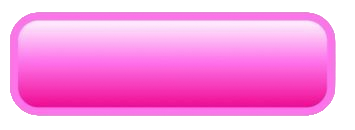
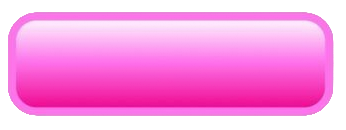
add new class MenuMechanicsScreen2. Redact button in menu classes

Changed region(s): [[0.8671, 0.0923, 0.9827, 0.8923], [0.0, 0.0923, 0.0867, 0.8308], [0.0578, 0.8308, 0.0867, 0.8923]]

diff --git a/core/src/com/mygdx/game/screens/MenuMechanicsScreen.java b/core/src/com/mygdx/game/screens/MenuMechanicsScreen.java
@@ -23,12 +23,8 @@ public class MenuMechanicsScreen implements Screen {
     private ButtonView button_seven;
     private ButtonView button_eight;
     private ButtonView button_nine;
-    private ButtonView button_ten;
-    private ButtonView button_eleven;
-    private ButtonView button_twelve;
-    private ButtonView button_thirteen;
-    private ButtonView button_fourteen;
-    private ButtonView button_fifteen;
+
+    private ButtonView button_right;
 
     public MenuMechanicsScreen(MyGdxGame myGdxGame) {
         this.myGdxGame = myGdxGame;
@@ -38,21 +34,17 @@ public class MenuMechanicsScreen implements Screen {
     public void show() {
         myGdxGame.camera.update();
         myGdxGame.batch.setProjectionMatrix(myGdxGame.camera.combined);
-        button_one = new ButtonView(25, 380, 240, 70, myGdxGame.commonWhiteFont, GameResources.BUTTON_BLUE_IMG_PATH, "1. Виды движения");
-        button_two = new ButtonView(275, 380, 240, 70, myGdxGame.commonWhiteFont, GameResources.BUTTON_VIOLET_IMG_PATH, "2. Масса тела");
-        button_three = new ButtonView(515, 380, 240, 70, myGdxGame.commonWhiteFont, GameResources.BUTTON_BLUE_IMG_PATH, "3. Сила");
-        button_four = new ButtonView(25, 290, 240, 70, myGdxGame.commonWhiteFont, GameResources.BUTTON_VIOLET_IMG_PATH, "4. Инерция");
-        button_five = new ButtonView(275, 290, 240, 70, myGdxGame.commonWhiteFont, GameResources.BUTTON_BLUE_IMG_PATH, "5. Сила трения");
-        button_six = new ButtonView(515, 290, 240, 70, myGdxGame.commonWhiteFont, GameResources.BUTTON_VIOLET_IMG_PATH, "6. Деформация");
-        button_seven = new ButtonView(25, 200, 240, 70, myGdxGame.commonWhiteFont, GameResources.BUTTON_BLUE_IMG_PATH, "7. Сила притяжения");
-        button_eight = new ButtonView(248, 200, 285, 70, myGdxGame.commonWhiteFont, GameResources.BUTTON_VIOLET_IMG_PATH, "8. Закон сохранения импульса");
-        button_nine = new ButtonView(515, 200, 240, 70, myGdxGame.commonWhiteFont, GameResources.BUTTON_BLUE_IMG_PATH, "9. Механическая работа");
-        button_ten = new ButtonView(25, 110, 240, 70, myGdxGame.commonWhiteFont, GameResources.BUTTON_VIOLET_IMG_PATH, "10. Виды энергии");
-        button_eleven = new ButtonView(275, 110, 240, 70, myGdxGame.commonWhiteFont, GameResources.BUTTON_BLUE_IMG_PATH, "11. Простые механизмы");
-        button_twelve = new ButtonView(515, 110, 240, 70, myGdxGame.commonWhiteFont, GameResources.BUTTON_VIOLET_IMG_PATH, "12. Давление");
-        button_thirteen = new ButtonView(25, 20, 240, 70, myGdxGame.commonWhiteFont, GameResources.BUTTON_BLUE_IMG_PATH, "13. Закон Паскаля");
-        button_fourteen = new ButtonView(275, 20, 240, 70, myGdxGame.commonWhiteFont, GameResources.BUTTON_VIOLET_IMG_PATH, "14. Закон Архимеда");
-        button_fifteen = new ButtonView(515, 20, 240, 70, myGdxGame.commonWhiteFont, GameResources.BUTTON_BLUE_IMG_PATH, "15. Звук");
+        button_one = new ButtonView(25, 340, 235, 120, myGdxGame.commonWhiteFont, GameResources.BUTTON_RED_IMG_PATH, "1. Виды движения");
+        button_two = new ButtonView(275, 340, 235, 120, myGdxGame.commonWhiteFont, GameResources.BUTTON_BLUE_IMG_PATH, "2. Масса тела");
+        button_three = new ButtonView(515, 340, 235, 120, myGdxGame.commonWhiteFont, GameResources.BUTTON_YELLO_IMG_PATH, "3. Сила");
+        button_four = new ButtonView(25, 210, 235, 120, myGdxGame.commonWhiteFont, GameResources.BUTTON_BROWN_IMG_PATH, "4. Инерция");
+        button_five = new ButtonView(275, 210, 235, 120, myGdxGame.commonWhiteFont, GameResources.BUTTON_PINK_IMG_PATH, "5. Сила трения");
+        button_six = new ButtonView(515, 210, 235, 120, myGdxGame.commonWhiteFont, GameResources.BUTTON_VIOLET_IMG_PATH, "6. Деформация");
+        button_seven = new ButtonView(25, 80, 235, 120, myGdxGame.commonWhiteFont, GameResources.BUTTON_YELLO_IMG_PATH, "7. Сила притяжения");
+        button_eight = new ButtonView(275, 80, 235, 120, myGdxGame.commonWhiteFont, GameResources.BUTTON_RED_IMG_PATH, "8. Закон" + "\n" + "сохранения" + "\n" + " импульса");
+        button_nine = new ButtonView(515, 80, 235, 120, myGdxGame.commonWhiteFont, GameResources.BUTTON_BLUE_IMG_PATH, "9. Механическая" + "\n" + "         работа");
+
+        button_right = new ButtonView(720, 20, 50, 50, GameResources.BUTTON_RIGHT_IMG_PATH);
 
     }
 
@@ -78,12 +70,8 @@ public class MenuMechanicsScreen implements Screen {
         button_seven.draw(myGdxGame.batch);
         button_eight.draw(myGdxGame.batch);
         button_nine.draw(myGdxGame.batch);
-        button_ten.draw(myGdxGame.batch);
-        button_eleven.draw(myGdxGame.batch);
-        button_twelve.draw(myGdxGame.batch);
-        button_thirteen.draw(myGdxGame.batch);
-        button_fourteen.draw(myGdxGame.batch);
-        button_fifteen.draw(myGdxGame.batch);
+
+        button_right.draw(myGdxGame.batch);
 
         myGdxGame.batch.end();
     }
@@ -96,9 +84,10 @@ public class MenuMechanicsScreen implements Screen {
                 myGdxGame.setScreen(myGdxGame.mechanicsScreen1);
 
             }
-//            if (exitButton.isHit(myGdxGame.touch.x, myGdxGame.touch.y)) {
-//                Gdx.app.exit();
-//            }
+            if (button_right.isHit(myGdxGame.touch.x, myGdxGame.touch.y)) {
+                myGdxGame.setScreen(myGdxGame.menuMechanicsScreen2);
+
+            }
         }
     }
 
@@ -111,16 +100,11 @@ public class MenuMechanicsScreen implements Screen {
         button_four.dispose();
         button_five.dispose();
         button_six.dispose();
-
         button_seven.dispose();
         button_eight.dispose();
         button_nine.dispose();
-        button_ten.dispose();
-        button_eleven.dispose();
-        button_twelve.dispose();
-        button_thirteen.dispose();
-        button_fourteen.dispose();
-        button_fifteen.dispose();
+
+        button_right.dispose();
 
     }
 

diff --git a/core/src/com/mygdx/game/screens/MenuMechanicsScreen2.java b/core/src/com/mygdx/game/screens/MenuMechanicsScreen2.java
@@ -1,0 +1,115 @@
+package com.mygdx.game.screens;
+
+import com.badlogic.gdx.Gdx;
+import com.badlogic.gdx.Screen;
+import com.badlogic.gdx.graphics.Color;
+import com.badlogic.gdx.graphics.Texture;
+import com.badlogic.gdx.math.Vector3;
+import com.badlogic.gdx.utils.ScreenUtils;
+import com.mygdx.game.GameResources;
+import com.mygdx.game.GameSettings;
+import com.mygdx.game.MyGdxGame;
+import com.mygdx.game.components.ButtonView;
+
+public class MenuMechanicsScreen2 implements Screen {
+    MyGdxGame myGdxGame;
+    private Texture background;
+    private ButtonView button_ten;
+    private ButtonView button_eleven;
+    private ButtonView button_twelve;
+    private ButtonView button_thirteen;
+    private ButtonView button_fourteen;
+    private ButtonView button_fifteen;
+
+    private ButtonView button_left;
+
+    public MenuMechanicsScreen2(MyGdxGame myGdxGame) {
+        this.myGdxGame = myGdxGame;
+        background = new Texture(GameResources.BACKGROUND_DOSKA_IMG_PATH);
+    }
+
+    @Override
+    public void show() {
+        myGdxGame.camera.update();
+        myGdxGame.batch.setProjectionMatrix(myGdxGame.camera.combined);
+
+        button_ten = new ButtonView(25, 300, 235, 120, myGdxGame.commonWhiteFont, GameResources.BUTTON_RED_IMG_PATH, "10. Виды энергии");
+        button_eleven = new ButtonView(275, 300, 235, 120, myGdxGame.commonWhiteFont, GameResources.BUTTON_BLUE_IMG_PATH, "11. Простые" + "\n" + "  механизмы");
+        button_twelve = new ButtonView(515, 300, 235, 120, myGdxGame.commonWhiteFont, GameResources.BUTTON_YELLO_IMG_PATH, "12. Давление");
+        button_thirteen = new ButtonView(25, 140, 235, 120, myGdxGame.commonWhiteFont, GameResources.BUTTON_BROWN_IMG_PATH, "13. Закон Паскаля");
+        button_fourteen = new ButtonView(275, 140, 235, 120, myGdxGame.commonWhiteFont, GameResources.BUTTON_PINK_IMG_PATH, "14. Закон Архимеда");
+        button_fifteen = new ButtonView(515, 140, 235, 120, myGdxGame.commonWhiteFont, GameResources.BUTTON_VIOLET_IMG_PATH,"15. Звук");
+
+        button_left = new ButtonView(30, 20, 50, 50, GameResources.BUTTON_LEFT_IMG_PATH);
+    }
+
+    @Override
+    public void render(float delta) {
+
+        handleInput();
+
+        ScreenUtils.clear(Color.CLEAR);
+
+        myGdxGame.camera.update();
+        myGdxGame.batch.setProjectionMatrix(myGdxGame.camera.combined);
+
+        myGdxGame.batch.begin();
+
+        myGdxGame.batch.draw(background,  0, 0, GameSettings.SCR_WIDTH, GameSettings.SCR_HEIGHT);
+        button_ten.draw(myGdxGame.batch);
+        button_eleven.draw(myGdxGame.batch);
+        button_twelve.draw(myGdxGame.batch);
+        button_thirteen.draw(myGdxGame.batch);
+        button_fourteen.draw(myGdxGame.batch);
+        button_fifteen.draw(myGdxGame.batch);
+
+        button_left.draw(myGdxGame.batch);
+
+        myGdxGame.batch.end();
+    }
+
+    private void handleInput() {
+        if (Gdx.input.justTouched()) {
+            myGdxGame.touch = myGdxGame.camera.unproject(new Vector3(Gdx.input.getX(), Gdx.input.getY(), 0));
+
+            if (button_left.isHit(myGdxGame.touch.x, myGdxGame.touch.y)) {
+                myGdxGame.setScreen(myGdxGame.menuMechanicsScreen);
+
+            }
+        }
+    }
+
+    @Override
+    public void dispose() {
+        background.dispose();
+
+        button_ten.dispose();
+        button_eleven.dispose();
+        button_twelve.dispose();
+        button_thirteen.dispose();
+        button_fourteen.dispose();
+        button_fifteen.dispose();
+
+        button_left.dispose();
+    }
+
+    @Override
+    public void resize(int width, int height) {
+
+    }
+
+    @Override
+    public void pause() {
+
+    }
+
+    @Override
+    public void resume() {
+
+    }
+
+    @Override
+    public void hide() {
+
+    }
+}

diff --git a/core/src/com/mygdx/game/screens/MenuScreen2.java b/core/src/com/mygdx/game/screens/MenuScreen2.java
@@ -29,12 +29,12 @@ public class MenuScreen2 implements Screen {
     public void show() {
         myGdxGame.camera.update();
         myGdxGame.batch.setProjectionMatrix(myGdxGame.camera.combined);
-        button_one = new ButtonView(25, 300, 290, 80, myGdxGame.commonWhiteFont, GameResources.BUTTON_BLUE_IMG_PATH, "Механические явления");
-        button_two = new ButtonView(303, 300, 290, 80, myGdxGame.commonWhiteFont, GameResources.BUTTON_VIOLET_IMG_PATH, "Тепловые явления");
-        button_three = new ButtonView(25, 200, 290, 80, myGdxGame.commonWhiteFont, GameResources.BUTTON_BLUE_IMG_PATH, "Электромагнитные явления");
-        button_four = new ButtonView(303, 200, 290, 80, myGdxGame.commonWhiteFont, GameResources.BUTTON_VIOLET_IMG_PATH, "Квантовые явления");
-        button_five = new ButtonView(25, 100, 290, 80, myGdxGame.commonWhiteFont, GameResources.BUTTON_BLUE_IMG_PATH, "Тесты");
-        button_six = new ButtonView(303, 100, 290, 80, myGdxGame.commonWhiteFont, GameResources.BUTTON_VIOLET_IMG_PATH, "Учёные");
+        button_one = new ButtonView(25, 320, 290, 120, myGdxGame.commonWhiteFont, GameResources.BUTTON_RED_IMG_PATH, "Механические явления");
+        button_two = new ButtonView(303, 320, 290, 120, myGdxGame.commonWhiteFont, GameResources.BUTTON_BLUE_IMG_PATH, "Тепловые явления");
+        button_three = new ButtonView(25, 195, 290, 120, myGdxGame.commonWhiteFont, GameResources.BUTTON_YELLO_IMG_PATH, "Электромагнитные" + "\n" + "          явления");
+        button_four = new ButtonView(303, 195, 290, 120, myGdxGame.commonWhiteFont, GameResources.BUTTON_BROWN_IMG_PATH, "Квантовые явления");
+        button_five = new ButtonView(25, 65, 290, 120, myGdxGame.commonWhiteFont, GameResources.BUTTON_PINK_IMG_PATH, "Тесты");
+        button_six = new ButtonView(303, 65, 290, 120, myGdxGame.commonWhiteFont, GameResources.BUTTON_VIOLET_IMG_PATH, "Учёные");
     }
 
     @Override

diff --git a/core/src/com/mygdx/game/MyGdxGame.java b/core/src/com/mygdx/game/MyGdxGame.java
@@ -24,6 +24,7 @@ import com.mygdx.game.screens.MechanicsScreen.MechanicsScreen7;
 import com.mygdx.game.screens.MechanicsScreen.MechanicsScreen8;
 import com.mygdx.game.screens.MechanicsScreen.MechanicsScreen9;
 import com.mygdx.game.screens.MenuMechanicsScreen;
+import com.mygdx.game.screens.MenuMechanicsScreen2;
 import com.mygdx.game.screens.MenuScreen;
 import com.mygdx.game.screens.MenuScreen2;
 
@@ -36,6 +37,7 @@ public class MyGdxGame extends Game {
 	public MenuScreen menuScreen;
 	public MenuScreen2 menuScreen2;
 	public MenuMechanicsScreen menuMechanicsScreen;
+	public MenuMechanicsScreen2 menuMechanicsScreen2;
 	public MechanicsScreen1 mechanicsScreen1;
 	public MechanicsScreen2 mechanicsScreen2;
 	public MechanicsScreen3 mechanicsScreen3;
@@ -61,7 +63,10 @@ public class MyGdxGame extends Game {
 
 		menuScreen = new MenuScreen(this);
 		menuScreen2 = new MenuScreen2(this);
+
 		menuMechanicsScreen = new MenuMechanicsScreen(this);
+		menuMechanicsScreen2 = new MenuMechanicsScreen2(this);
+
 		mechanicsScreen1 = new MechanicsScreen1(this);
 		mechanicsScreen2 = new MechanicsScreen2(this);
 		mechanicsScreen3 = new MechanicsScreen3(this);
@@ -77,7 +82,7 @@ public class MyGdxGame extends Game {
 
 		commonWhiteFont = FontBuilder.generate(20, Color.WHITE, GameResources.FONT_PATH);
 
-		setScreen(mechanicsScreen12);
+		setScreen(menuScreen);
 
 	}
 	
@@ -89,6 +94,7 @@ public class MyGdxGame extends Game {
 		menuScreen.dispose();
 		menuScreen2.dispose();
 		menuMechanicsScreen.dispose();
+		menuMechanicsScreen2.dispose();
 		mechanicsScreen1.dispose();
 		mechanicsScreen2.dispose();
 		mechanicsScreen3.dispose();

diff --git a/core/src/com/mygdx/game/GameResources.java b/core/src/com/mygdx/game/GameResources.java
@@ -4,8 +4,15 @@ public class GameResources {
     public static final String BACKGROUND_MENU_IMG_PATH = "menu_background.png";
     public static final String MENU_DOSKA_IMG_PATH = "menu_doska.png";
     public static final String BACKGROUND_DOSKA_IMG_PATH = "doska_background.png";
+
+    //Button
     public static final String BUTTON_VIOLET_IMG_PATH = "button_violet.png";
     public static final String BUTTON_BLUE_IMG_PATH = "button_blue.png";
+    public static final String BUTTON_BROWN_IMG_PATH = "button_brown.png";
+    public static final String BUTTON_PINK_IMG_PATH = "button_pink.png";
+    public static final String BUTTON_RED_IMG_PATH = "button_red.png";
+    public static final String BUTTON_YELLO_IMG_PATH = "button_yello.png";
+
     public static final String FORMULA_1_IMG = "formula_1.PNG";
     public static final String FORMULA_2_IMG = "formula_2.PNG";
     public static final String FORMULA_3_IMG = "formula_3.PNG";
